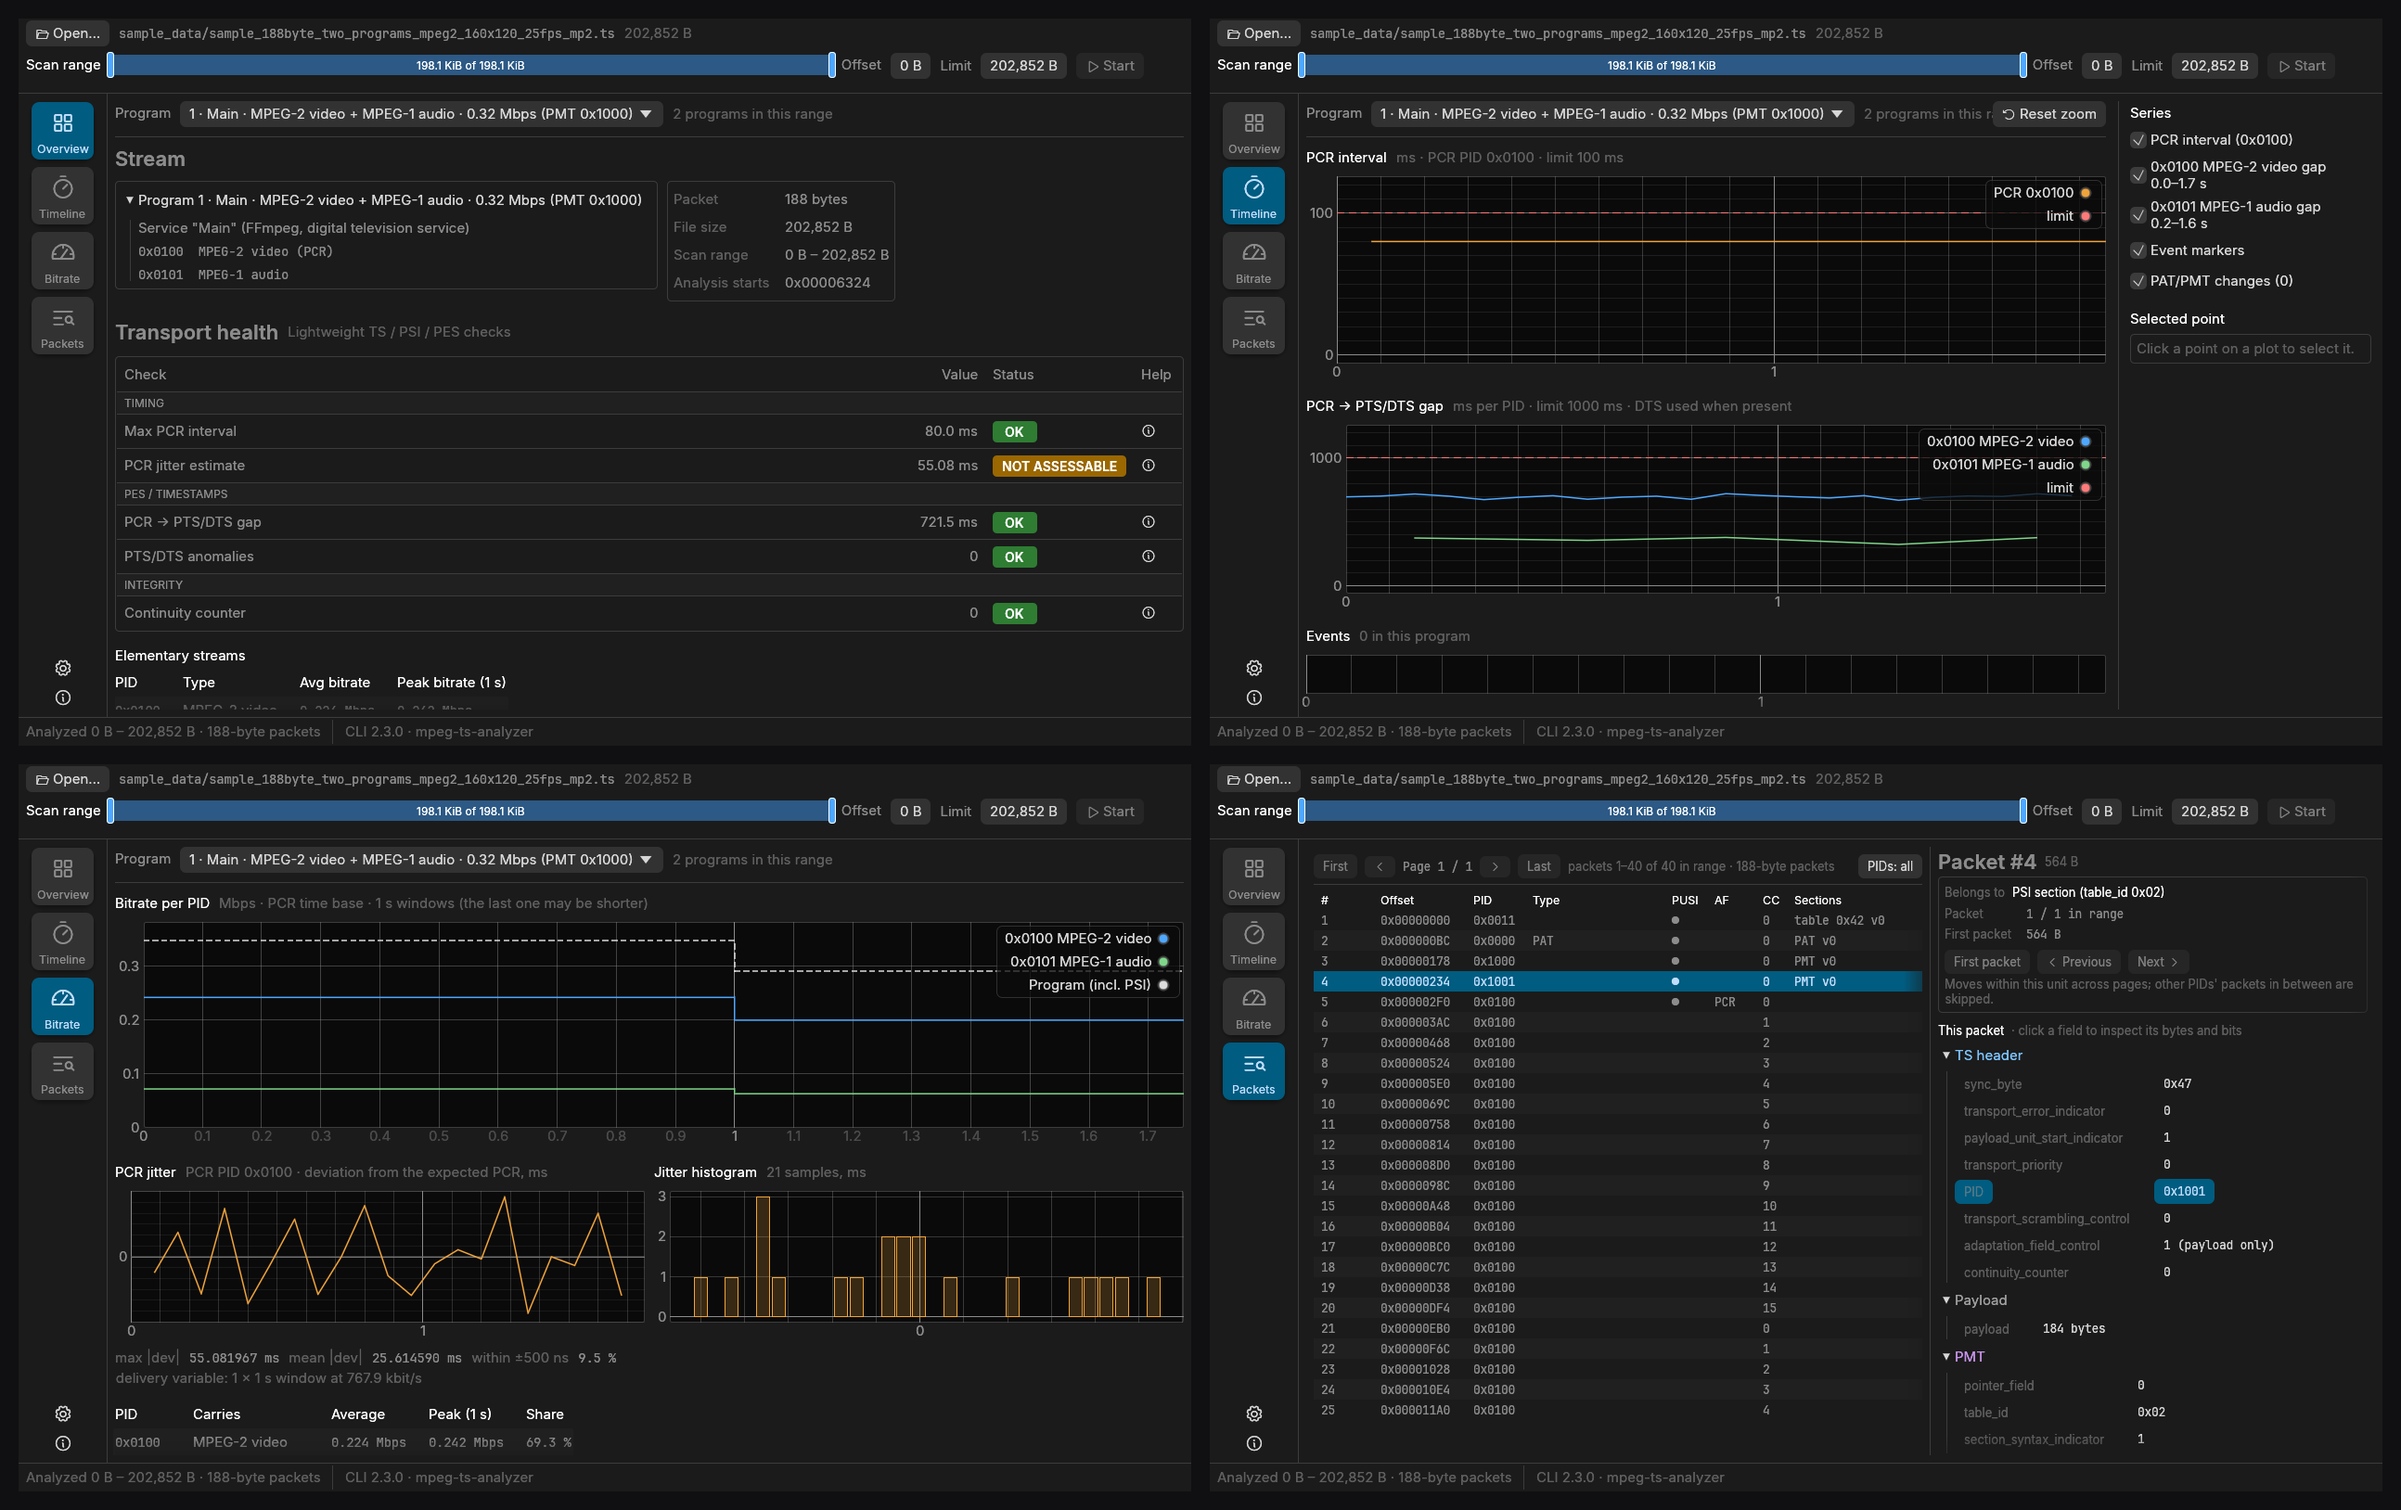
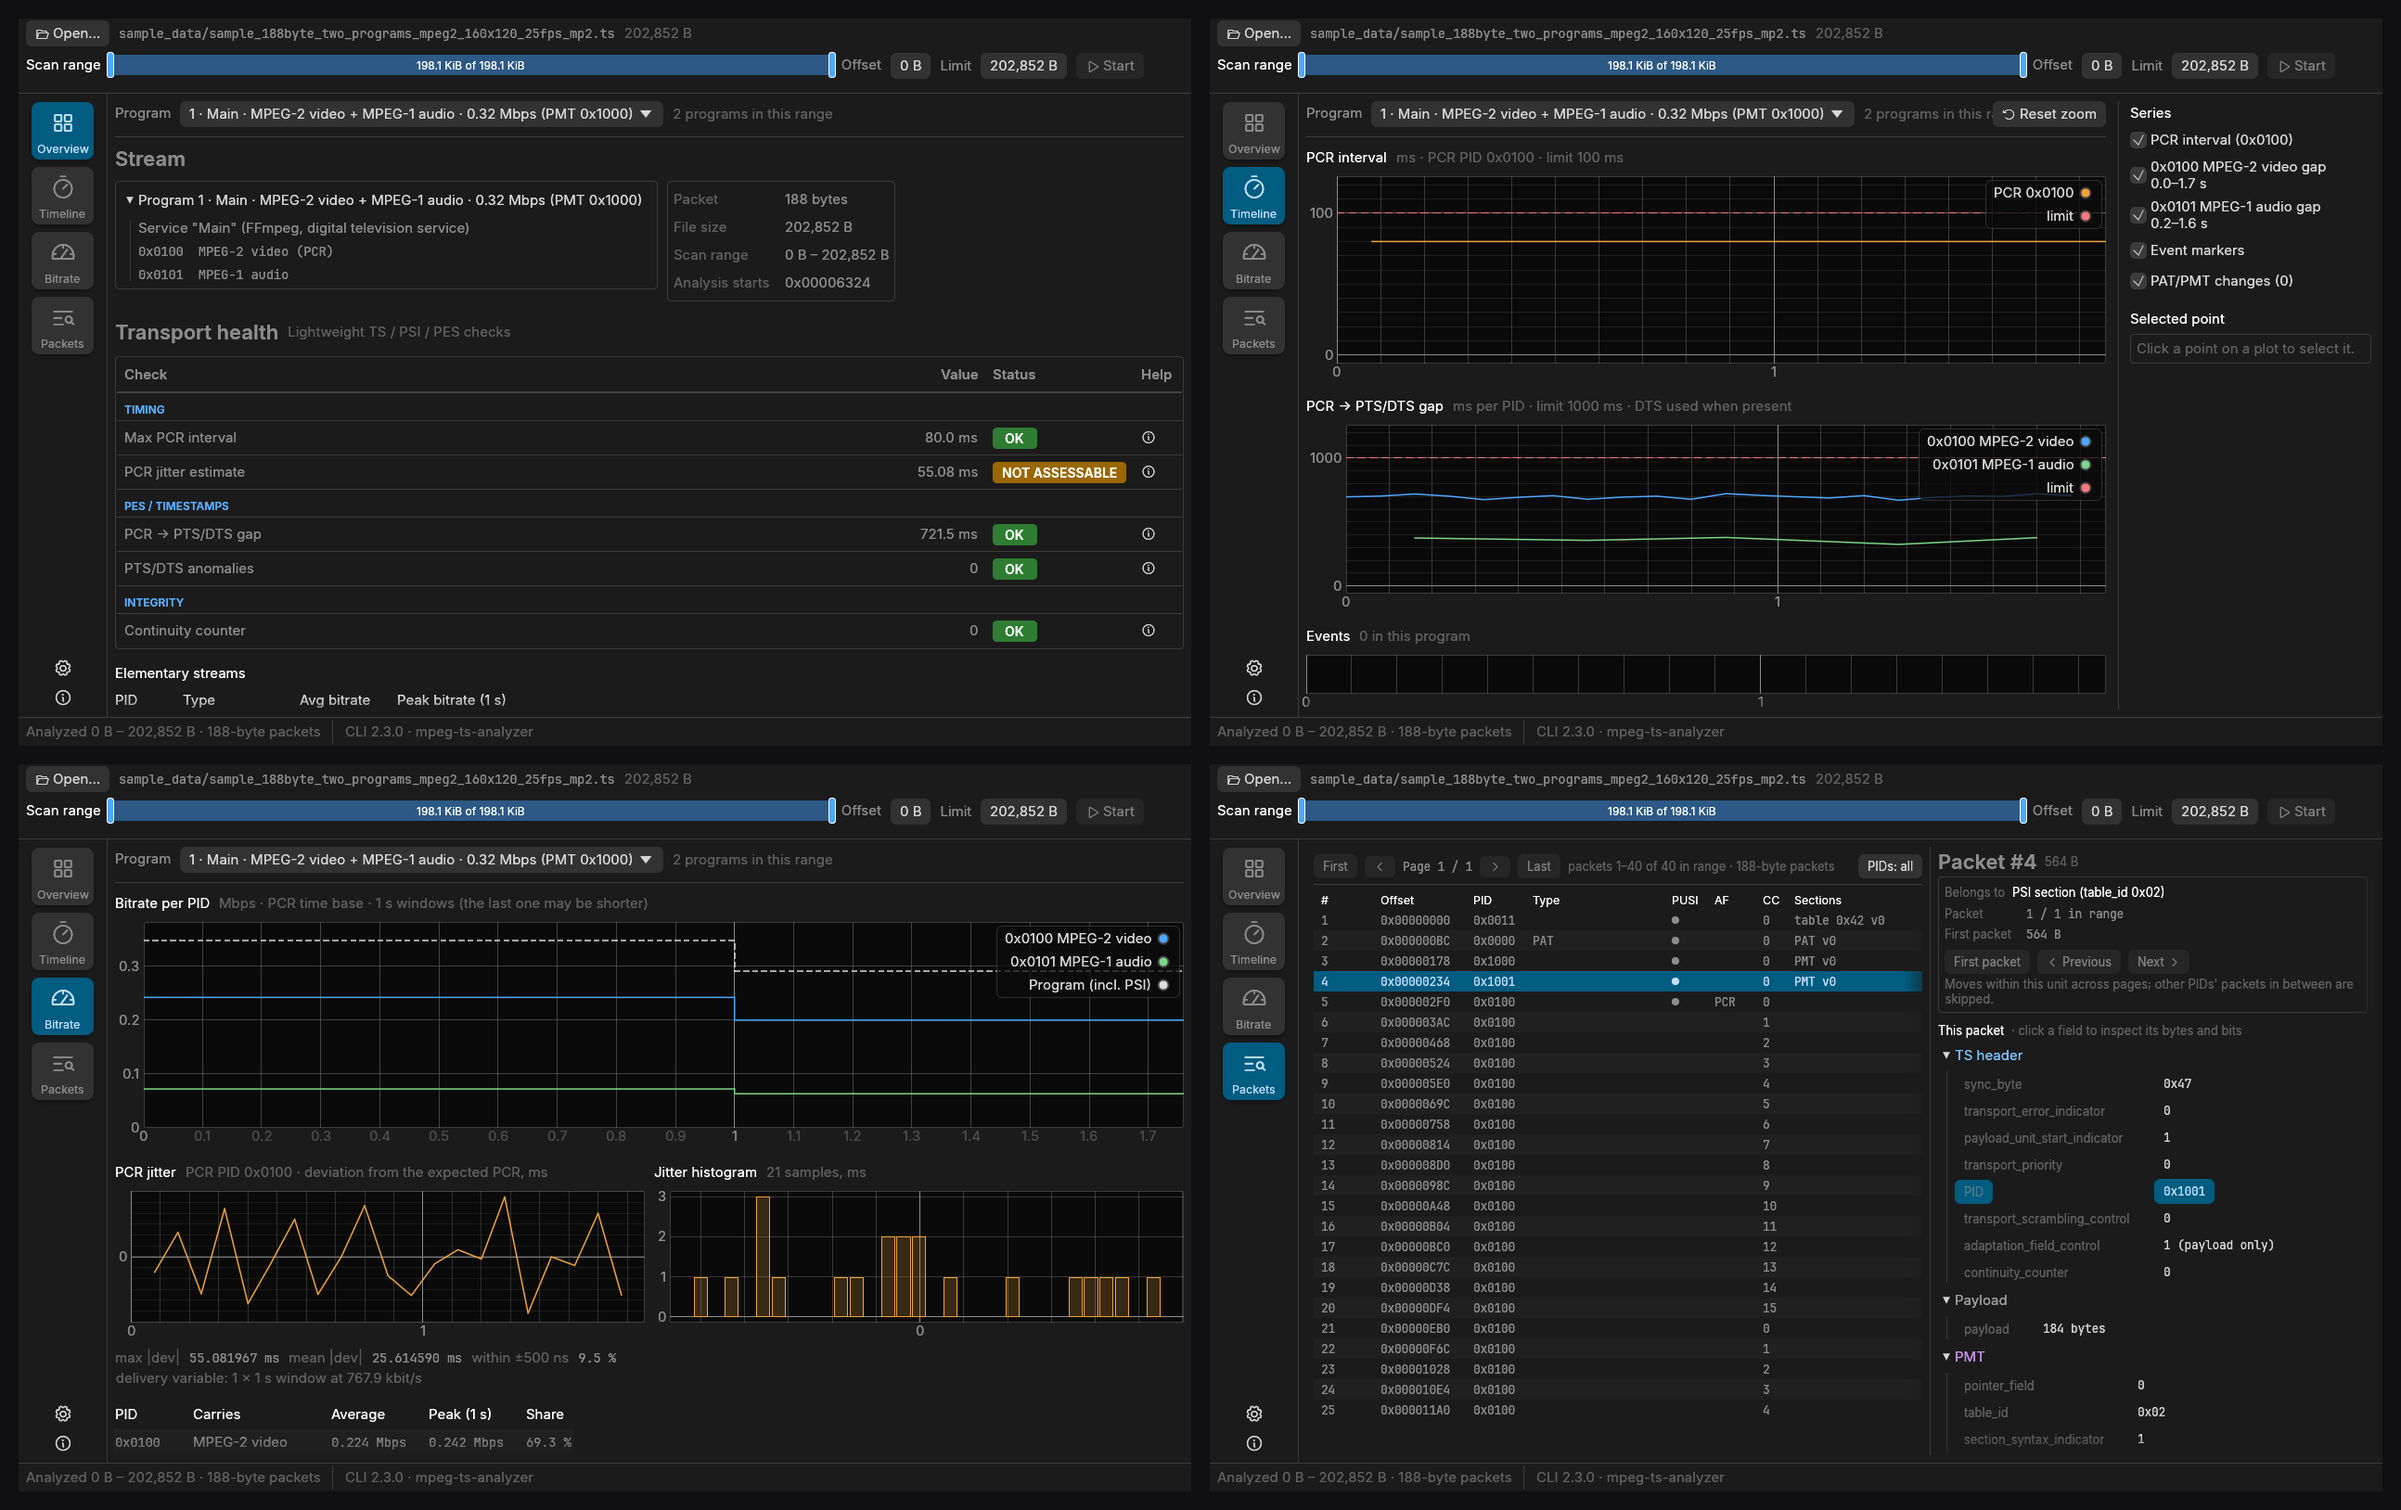
GUI: Material-style tables for Transport health and verdicts
Following Material Design 3 data tables, as the owner suggested: the
header row has no fill and uses semibold medium-emphasis text with a
stronger rule below it; rows keep thin dividers; categories are accent
subheaders with room above them instead of filled bars. All colors come
from the current light or dark visuals. README screenshot regenerated.

Changed region(s): [[0.0309, 0.2457, 0.1236, 0.4607], [0.3709, 0.2764, 0.4946, 0.43], [0.1236, 0.43, 0.1546, 0.4914]]

diff --git a/gui/src/views/overview.rs b/gui/src/views/overview.rs
@@ -575,24 +575,23 @@ fn health_table(ui: &mut egui::Ui, rows: &[Row], state: &mut OverviewState) {
         ui.set_width(inner);
         accessible_scope(ui, builder, |ui| {
             ui.spacing_mut().item_spacing.y = 0.0;
-            let header_fill = crate::theme::table_header_fill(ui.visuals());
-            table_row(ui, &columns, Some(header_fill), None, |ui, cell| {
-                ui.label(
-                    egui::RichText::new(match cell {
-                        Cell::Check => "Check",
-                        Cell::Value => "Value",
-                        Cell::Status => "Status",
-                        Cell::Help => "Help",
-                    })
-                    .strong()
-                    .color(crate::theme::table_header_text(ui.visuals())),
-                );
+            table_row(ui, &columns, None, None, |ui, cell| {
+                let title = match cell {
+                    Cell::Check => "Check",
+                    Cell::Value => "Value",
+                    Cell::Status => "Status",
+                    Cell::Help => "Help",
+                };
+                ui.label(crate::theme::table_header_text(title, ui.visuals()));
             });
+            rule(ui, inner, crate::theme::table_header_rule(ui.visuals()));
             let mut category = None;
             for row in rows {
                 if category != Some(row.check.category()) {
+                    if category.is_some() {
+                        separator(ui, inner);
+                    }
                     category = Some(row.check.category());
-                    separator(ui, inner);
                     category_row(ui, row.check.category().title(), inner);
                 }
                 separator(ui, inner);
@@ -771,32 +770,33 @@ pub(crate) fn accessible_scope<R>(
 /// Room a growing cell may take; any real cell is far shorter.
 const CELL_MAX_HEIGHT: f32 = 10_000.0;
 
-/// A category row: the title in capitals across the table, announced as a
-/// heading with its title as written.
+/// A category subheader: the title in accent capitals across the table, with
+/// room above it, announced as a heading with its title as written.
 fn category_row(ui: &mut egui::Ui, title: &str, width: f32) {
     egui::Frame::new()
-        .fill(crate::theme::table_category_fill(ui.visuals()))
-        .inner_margin(egui::Margin::symmetric(CELL_PADDING as i8, 4))
+        .inner_margin(egui::Margin {
+            left: CELL_PADDING as i8,
+            right: CELL_PADDING as i8,
+            top: 10,
+            bottom: 4,
+        })
         .show(ui, |ui| {
             ui.set_width(width - 2.0 * CELL_PADDING);
-            let response = ui.label(
-                egui::RichText::new(title.to_uppercase())
-                    .small()
-                    .strong()
-                    .color(crate::theme::table_header_text(ui.visuals())),
-            );
+            let response = ui.label(crate::theme::table_category_text(title, ui.visuals()));
             response.widget_info(|| egui::WidgetInfo::labeled(egui::Role::Heading, true, title));
         });
 }
 
 /// A line between table rows.
 fn separator(ui: &mut egui::Ui, width: f32) {
-    let (rect, _) = ui.allocate_exact_size(egui::vec2(width, 1.0), egui::Sense::hover());
-    ui.painter().hline(
-        rect.x_range(),
-        rect.center().y,
-        ui.visuals().widgets.noninteractive.bg_stroke,
-    );
+    rule(ui, width, ui.visuals().widgets.noninteractive.bg_stroke);
+}
+
+/// A horizontal line across the table.
+pub(crate) fn rule(ui: &mut egui::Ui, width: f32, stroke: egui::Stroke) {
+    let (rect, _) =
+        ui.allocate_exact_size(egui::vec2(width, stroke.width.ceil()), egui::Sense::hover());
+    ui.painter().hline(rect.x_range(), rect.center().y, stroke);
 }
 
 /// The focusable button that opens the detail page of a check.

diff --git a/gui/src/theme.rs b/gui/src/theme.rs
@@ -42,22 +42,32 @@ pub const VIDEO_COLOR: Color32 = Color32::from_rgb(0x4e, 0xa8, 0xff);
 pub const AUDIO_COLOR: Color32 = Color32::from_rgb(0x7f, 0xd6, 0x8a);
 pub const PSI_COLOR: Color32 = Color32::from_rgb(0xc7, 0x92, 0xea);
 pub const LIMIT_COLOR: Color32 = Color32::from_rgb(0xff, 0x7a, 0x7a);
-/// Fill of a table's column-header row: a little apart from the panel in the
-/// current light or dark theme (never a fixed color, which would be a dark
-/// bar on a light panel or the reverse).
-pub fn table_header_fill(visuals: &egui::Visuals) -> Color32 {
-    visuals.widgets.noninteractive.weak_bg_fill
+// Tables follow Material Design 3's data tables: the header row sits on the
+// same surface as the rows (no fill) with medium-emphasis semibold text and a
+// stronger rule below it; rows are separated by thin dividers; a category is a
+// subheader in the accent color. Every color comes from the current light or
+// dark visuals, never a fixed value.
+
+/// Text of a table's column headers: semibold, in the theme's ordinary
+/// (medium-emphasis) text color.
+pub fn table_header_text(text: &str, visuals: &egui::Visuals) -> egui::RichText {
+    egui::RichText::new(text)
+        .family(FontFamily::Name(HEADING_FAMILY.into()))
+        .color(visuals.text_color())
 }
 
-/// Fill of a category row inside a table, between the panel and the header.
-pub fn table_category_fill(visuals: &egui::Visuals) -> Color32 {
-    visuals.faint_bg_color
+/// The rule under a table's header row, stronger than the row dividers.
+pub fn table_header_rule(visuals: &egui::Visuals) -> egui::Stroke {
+    egui::Stroke::new(1.5, visuals.text_color().gamma_multiply(0.45))
 }
 
-/// Text of table header and category rows: the theme's ordinary text color,
-/// quieter than strong text.
-pub fn table_header_text(visuals: &egui::Visuals) -> Color32 {
-    visuals.text_color()
+/// Text of a category subheader inside a table: small semibold capitals in
+/// the accent color.
+pub fn table_category_text(text: &str, visuals: &egui::Visuals) -> egui::RichText {
+    egui::RichText::new(text.to_uppercase())
+        .small()
+        .family(FontFamily::Name(HEADING_FAMILY.into()))
+        .color(visuals.hyperlink_color)
 }
 
 /// Size of the text in a status badge: close to body text, so a verdict

diff --git a/gui/src/views/check_detail.rs b/gui/src/views/check_detail.rs
@@ -245,25 +245,26 @@ fn verdict_table(ui: &mut egui::Ui, statuses: &[(&str, &str)], current: Option<&
         ui.set_width(inner);
         accessible_scope(ui, builder, |ui| {
             ui.spacing_mut().item_spacing.y = 0.0;
-            let header_fill = crate::theme::table_header_fill(ui.visuals());
             verdict_row(
                 ui,
                 [status_width, condition_width],
                 None,
                 |ui, column| {
-                    ui.label(
-                        egui::RichText::new(["Status", "Condition"][column])
-                            .strong()
-                            .color(crate::theme::table_header_text(ui.visuals())),
-                    );
+                    ui.label(crate::theme::table_header_text(
+                        ["Status", "Condition"][column],
+                        ui.visuals(),
+                    ));
                 },
-                Some(header_fill),
+                None,
                 None,
             );
-            for (status, meaning) in statuses {
-                let rect = ui.allocate_exact_size(egui::vec2(inner, 1.0), egui::Sense::hover());
-                ui.painter()
-                    .hline(rect.0.x_range(), rect.0.center().y, stroke);
+            overview::rule(ui, inner, crate::theme::table_header_rule(ui.visuals()));
+            for (index, (status, meaning)) in statuses.iter().enumerate() {
+                if index > 0 {
+                    let rect = ui.allocate_exact_size(egui::vec2(inner, 1.0), egui::Sense::hover());
+                    ui.painter()
+                        .hline(rect.0.x_range(), rect.0.center().y, stroke);
+                }
                 let selected = current == Some(*status);
                 let label = format!("{}: {meaning}", status_label(status));
                 verdict_row(
